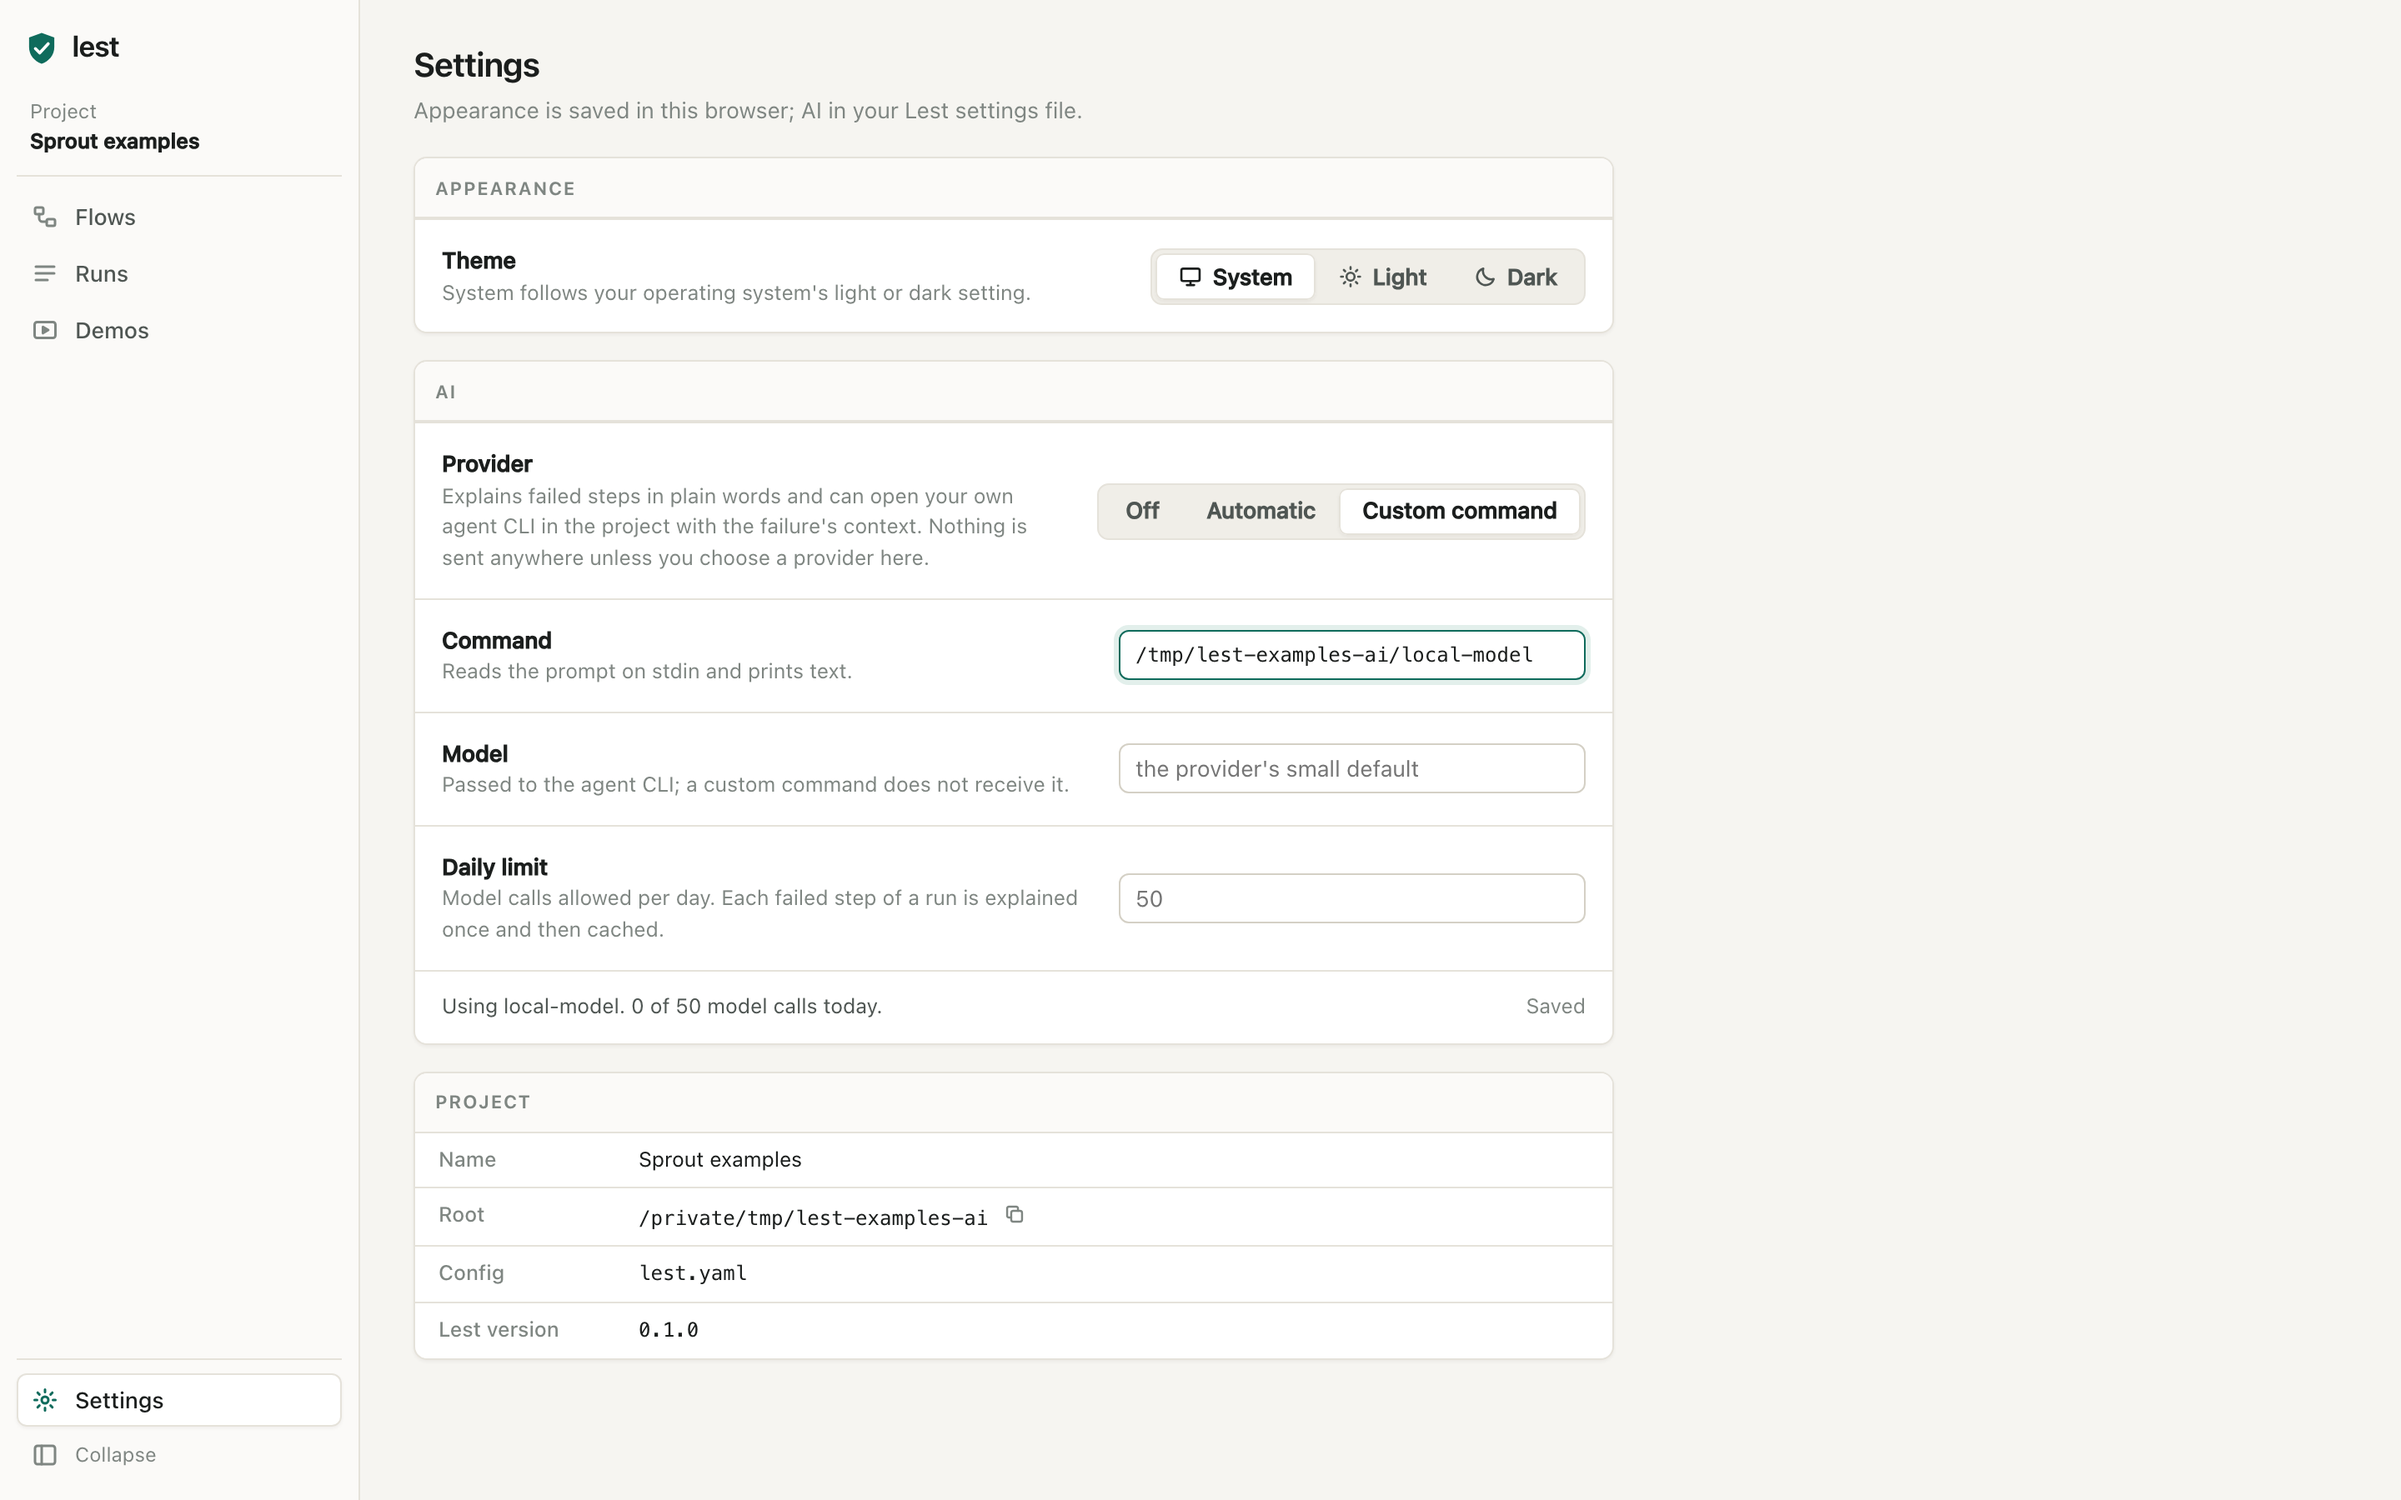
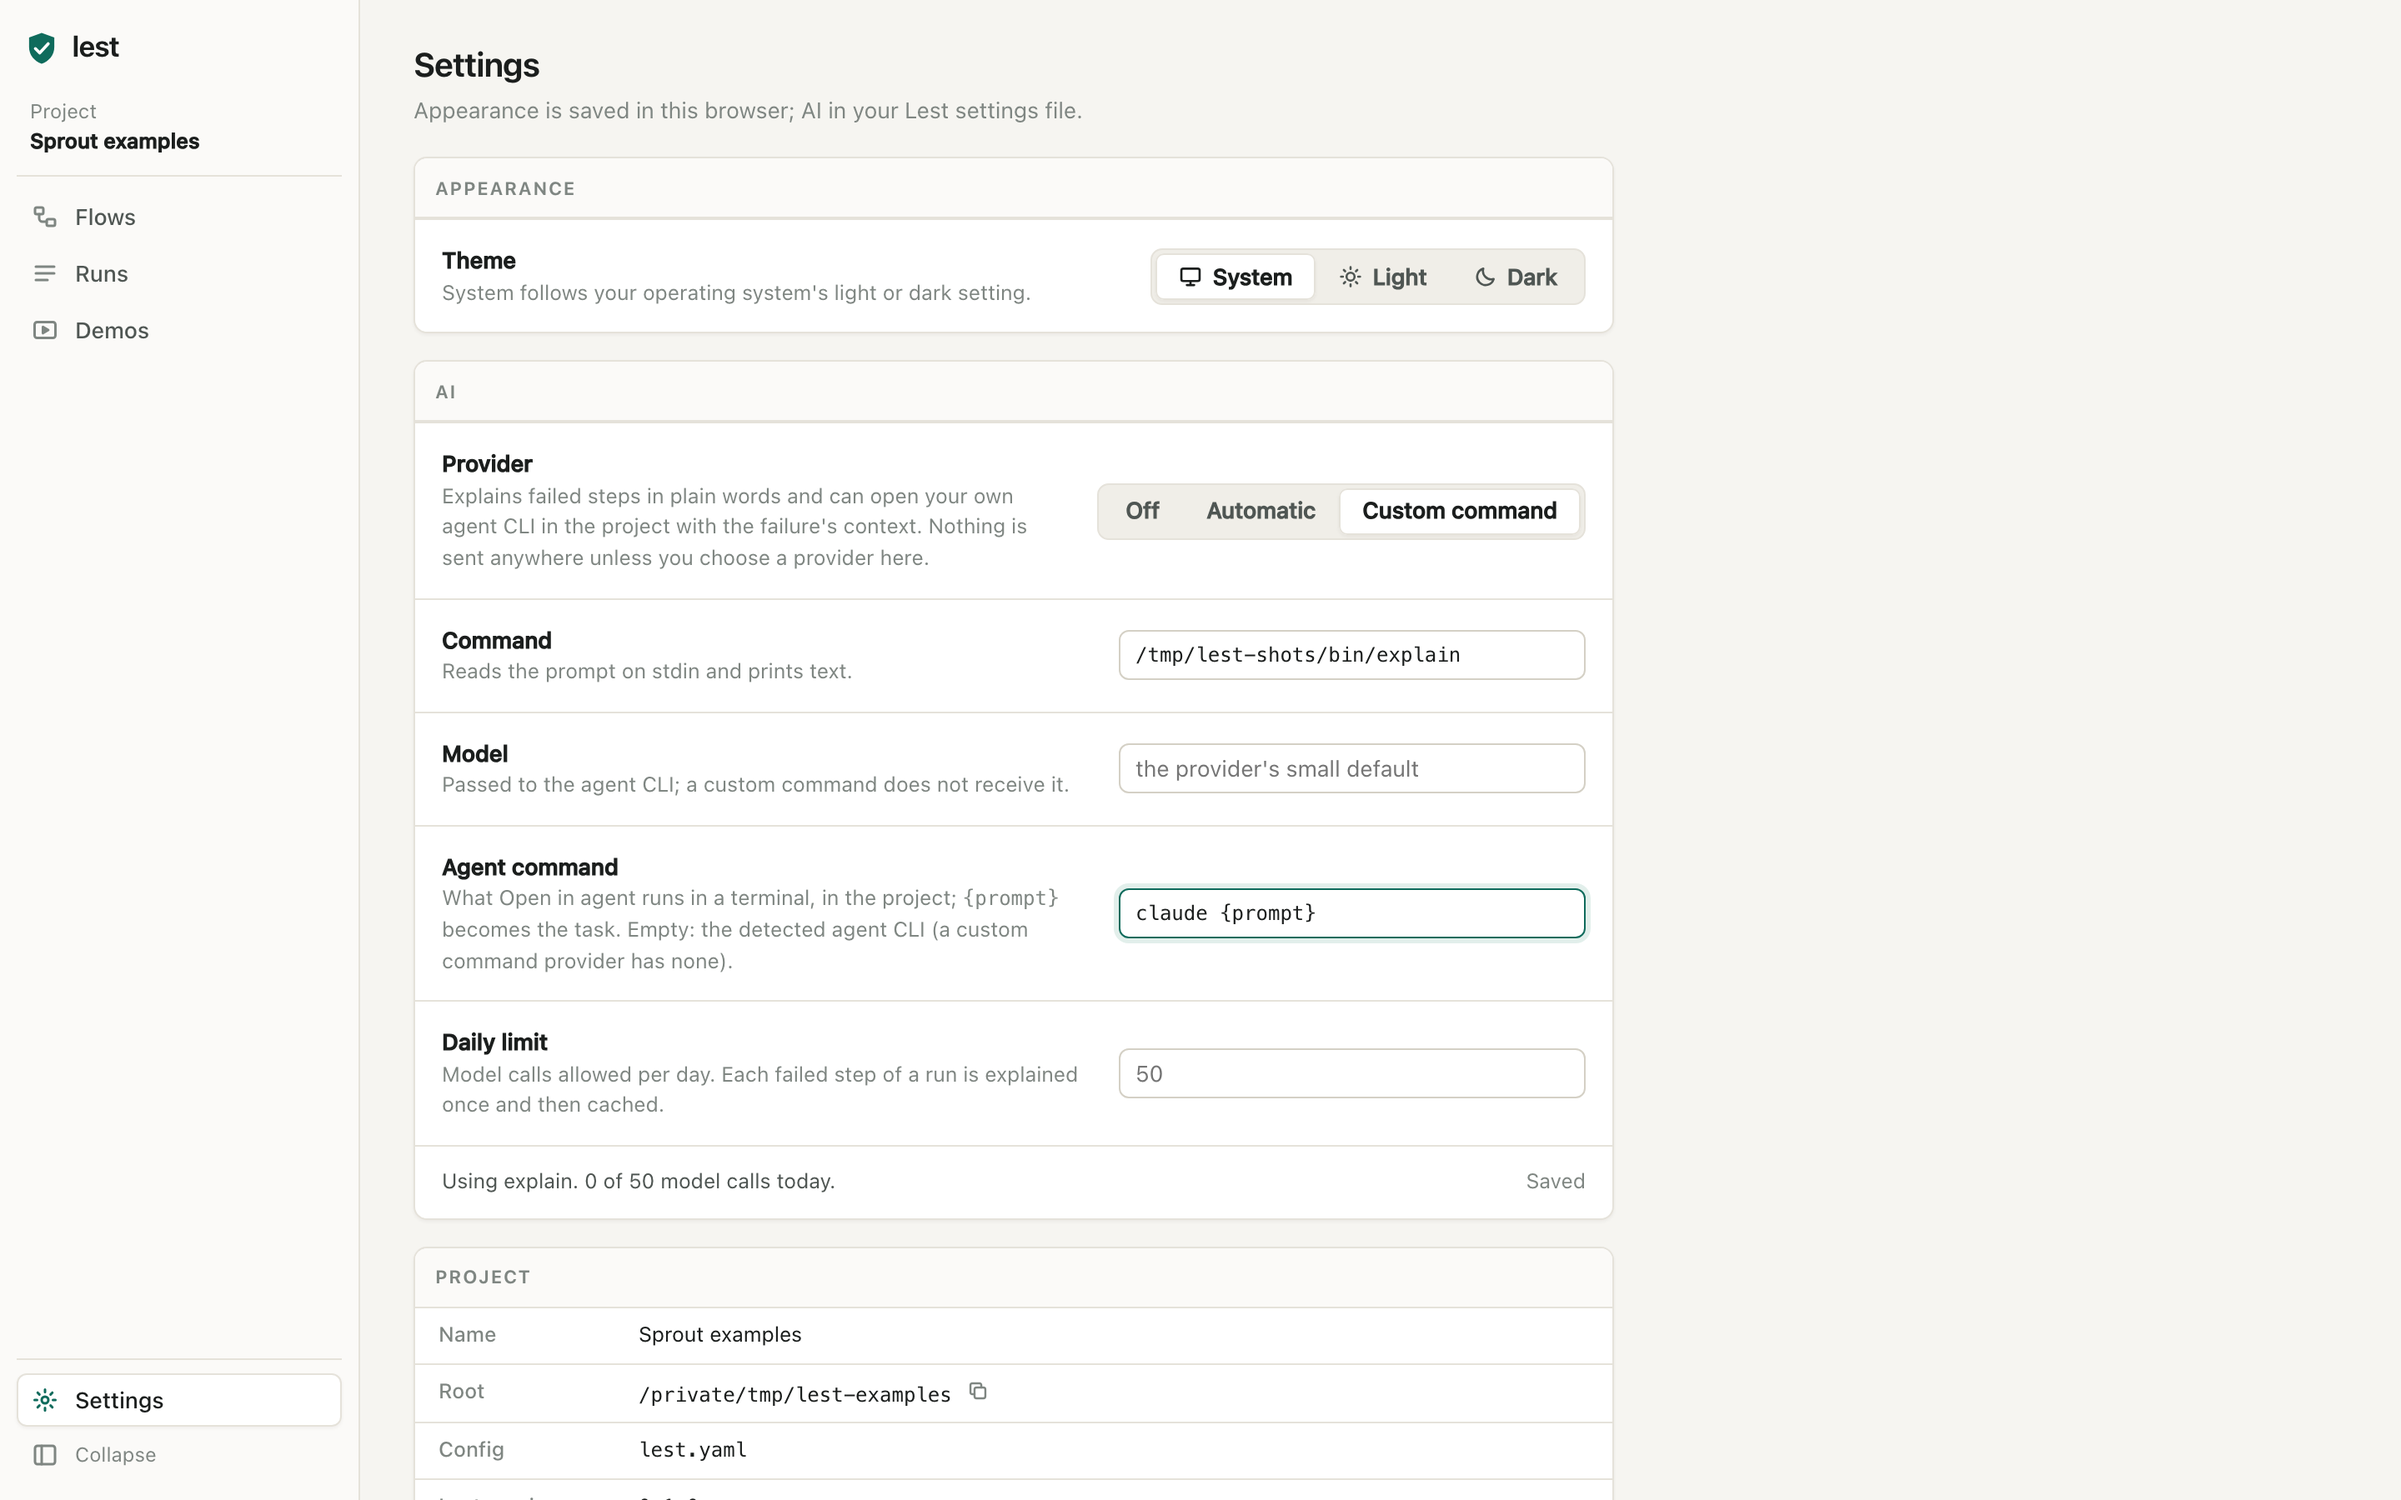
docs: README with an example and screenshot per feature
Regenerated screenshots from the examples, a GIF of the demo cut, and
the screenshot script sets an agent command for the AI images.

Changed region(s): [[0.1875, 0.56, 0.6875, 0.9333], [0.4688, 0.4044, 0.6562, 0.4667], [0.1875, 0.84, 0.2188, 0.9022]]

diff --git a/README.md b/README.md
@@ -54,18 +54,13 @@ lest runs list
 - **Steps:** `run` a script, send an `http` request, `assert` conditions,
   drive a `browser`, call another `flow`, or group steps in order or in
   `parallel`.
-- **Browsers:** declarative actions or a Playwright script, saved sign-in
-  sessions, screenshots at failure, and recorded videos with a visible cursor.
-- **Services:** start a dev server or mock before the steps, wait until it
-  is ready, and stop it after.
-- **Demos:** record a flow and get a cut video with waits removed, popups in
-  place, chapters from your beat labels, and a still per beat. The demo stays
-  a test, so it fails when the product drifts.
 - **Expressions:** one language, [CEL](https://github.com/google/cel-spec),
   for conditions, assertions and outputs, and `${{ expr }}` inside strings.
   Values reach scripts as environment variables, never as text spliced into
   shell code.
 - **Retries and polling:** `retry: {attempts, delay, until}` on any step.
+- **Services:** start a dev server or mock before the steps, wait until it
+  is ready, and stop it after.
 - **Environments and inputs:** named variable sets and per-run choices.
 - **Secrets:** referenced by name, resolved from the OS keyring, environment
   variables or any password-manager command, and redacted from every output
@@ -77,13 +72,136 @@ lest runs list
   `lest cleanup <run>`.
 - **Reports:** a JSON report per run (`lest schema report` describes it),
   JUnit XML, and `lest bundle` evidence zips with checksums.
-- **CI:** `lest affected --base origin/main` lists the flows a change touches;
-  webhook notifications (JSON or Slack-compatible) after each run.
 
-- **Optional AI:** off by default. With a provider of your choice, failed
-  steps get a plain-words explanation next to their deterministic headline,
-  and Open in agent hands the failure to your own agent CLI. Nothing changes
-  in the layout either way.
+An API flow from the examples signs in, adds a plant, polls until its sensor
+pairs, and removes the plant again:
+
+```yaml
+  - id: add_plant
+    http:
+      method: POST
+      url: "${{ vars.base_url }}/api/plants"
+      headers: { Authorization: "Bearer ${{ steps.sign_in.outputs.token }}" }
+      json: { name: Basil, room: Kitchen, moisture: 55 }
+    expect: self.status == 201
+    outputs: { id: self.body.id }
+    cleanup:
+      run: curl -fsS -X DELETE -H "Authorization: Bearer $TOKEN" "$base_url/api/plants/$ID"
+      env:
+        ID: "${{ self.outputs.id }}"
+        TOKEN: "${{ steps.sign_in.outputs.token }}"
+
+  - id: sensor_online
+    http:
+      url: "${{ vars.base_url }}/api/plants/${{ steps.add_plant.outputs.id }}/status"
+      headers: { Authorization: "Bearer ${{ steps.sign_in.outputs.token }}" }
+    outputs: { sensor: self.body.sensor }
+    retry: { attempts: 6, delay: 300ms, until: self.outputs.sensor == 'online' }
+```
+
+![A passed run of the Plants API flow, with the polling step open and its cleanup listed](docs/images/flow-passed.png)
+
+## Failures that explain themselves
+
+A failed step leads with a headline that says what was expected and what
+happened instead, taken from the step itself: the HTTP status and body, the
+assertion's values, or for a browser step the page it was on and the text it
+showed. Browser steps keep a screenshot at failure, and the CLI prints the
+command that reruns from the failed step.
+
+```console
+$ lest run wrong-password
+▶ Wrong password (fails on purpose) (local) · run 20261007T144538Z-4uhm
+  starting service sprout
+  ✗ Sign in through the API       1ms  HTTP 401 from POST http://127.0.0.1:4173/api/login: wrong email or password
+  ✗ Sign in on the login page   15.5s  actions[3] expectText: expected h1 to contain "Good morning", but it never appeared on http://127.0.0.1:4173/login ("Sign in · Sprout"); the page shows "Wrong email or password"
+  rerun from the failure: lest run wrong-password --from page_login
+failed wrong-password 15.7s 20261007T144538Z-4uhm
+```
+
+![The same failure in the UI, with the headline, actions and the screenshot at failure](docs/images/flow-failed.png)
+
+## Browsers
+
+Browser steps use Playwright: declarative actions for short checks, or a
+script with helpers for a visible cursor, paced typing and holds. Sessions
+save a sign-in once and reuse it in later flows. With Watch browser on, the
+UI shows the page live while the step runs.
+
+![A recording in progress, with the live browser view showing a consent popup](docs/images/flow-running-live.png)
+
+## Demos
+
+A demo is a flow that records its browser step. Lest cuts the recording to
+the moments the script marks, removes the waits, places popups over the page
+that opened them, and writes chapters and a still for each beat. Because the
+demo is still a flow, it fails when the product drifts instead of going
+stale.
+
+```yaml
+demo:
+  title: Water by the forecast
+  beats:
+    - { marker: plants, label: The dashboard shows every plant }
+    - { marker: consent, label: SkyCast asks for permission }
+    - { marker: connected, label: The forecast appears }
+```
+
+```js
+await phase("consent", async () => {
+  const consent = await popup(() => ui.click("#connect"));
+  beat("consent");
+  await ui.dwell(900);
+  await ui.click("#allow");
+  await consent.waitForEvent("close");
+});
+```
+
+The cut from the example, 11 seconds from a 14 second take:
+
+![The cut demo: the dashboard, the consent popup, and the forecast](docs/images/demo.gif)
+
+![The demo page, with the cut, its story beats and the latest recording](docs/images/demo.png)
+
+## The UI
+
+`lest ui` serves the UI on a loopback port for this project; `lest ui --app`
+opens it in its own window. Everything the CLI does is there: browse and
+filter flows, run them with an environment and inputs, follow a run live,
+cancel it, and read past runs. The CLI and UI share the same reports.
+
+![The flows page, grouped by folder with each flow's last result](docs/images/flows.png)
+
+![Past runs, newest first, filterable by flow and status](docs/images/runs.png)
+
+Light and dark themes follow the system or a setting.
+
+![A failed run in the dark theme](docs/images/flow-failed-dark.png)
+
+## Optional AI
+
+AI is off by default, and the UI looks the same without it. With a provider
+of your choice (an agent CLI you already use, or any command that reads a
+prompt and prints text), a failed step gets a plain-words explanation in
+place of its headline, with the headline kept underneath, and Open in agent
+starts your agent CLI in the project with the failure's context. Each
+failure is explained once and cached, under a daily limit.
+
+![A failed step explained by a model, with Open in agent in the step's menu](docs/images/flow-failed-ai.png)
+
+![AI settings: provider, command, agent command and daily limit](docs/images/settings-ai.png)
+
+From the CLI, `lest explain <run>` prints the same explanation (or the
+headline when AI is off), and `lest context <run>` prints everything needed to
+pick up a failure, ready to paste anywhere.
+
+## CI
+
+`lest run` exits non-zero on failure and can write JUnit XML.
+`lest affected --base origin/main` lists the flows whose files, called flows,
+scripts or `affects` globs a change touches, so a pipeline runs only those.
+Webhook notifications (JSON or Slack-compatible) go out after each run, and
+`lest bundle` zips a run's report and artifacts with checksums for evidence.
 
 ## Examples
 
